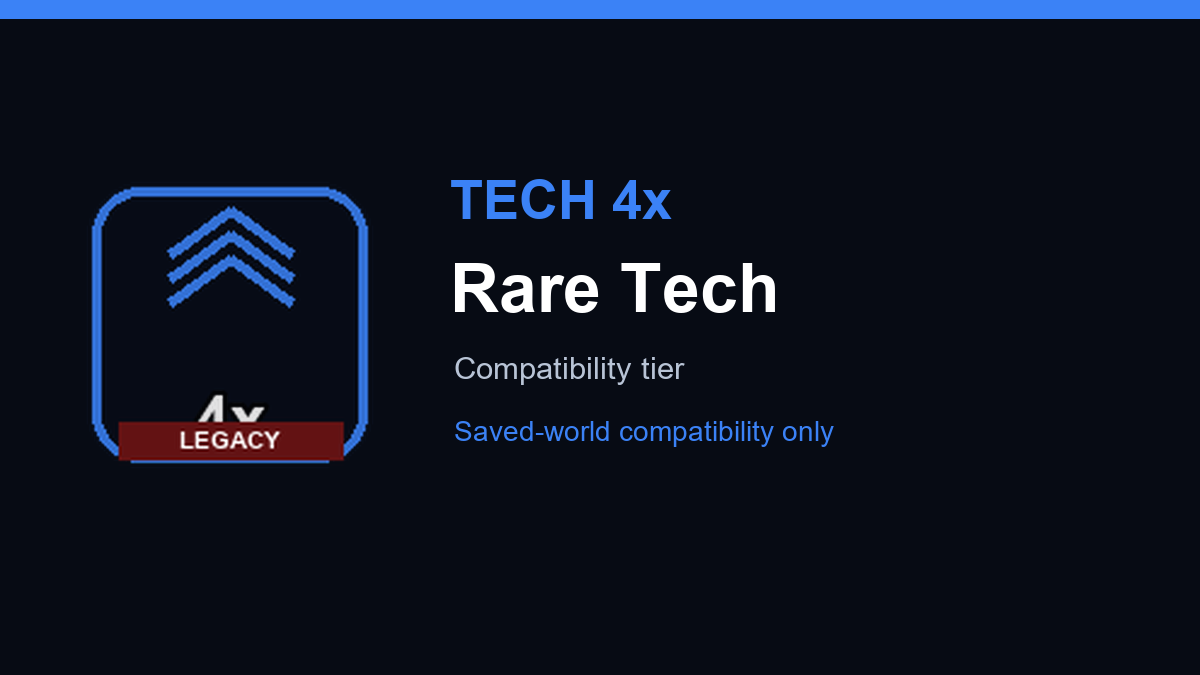
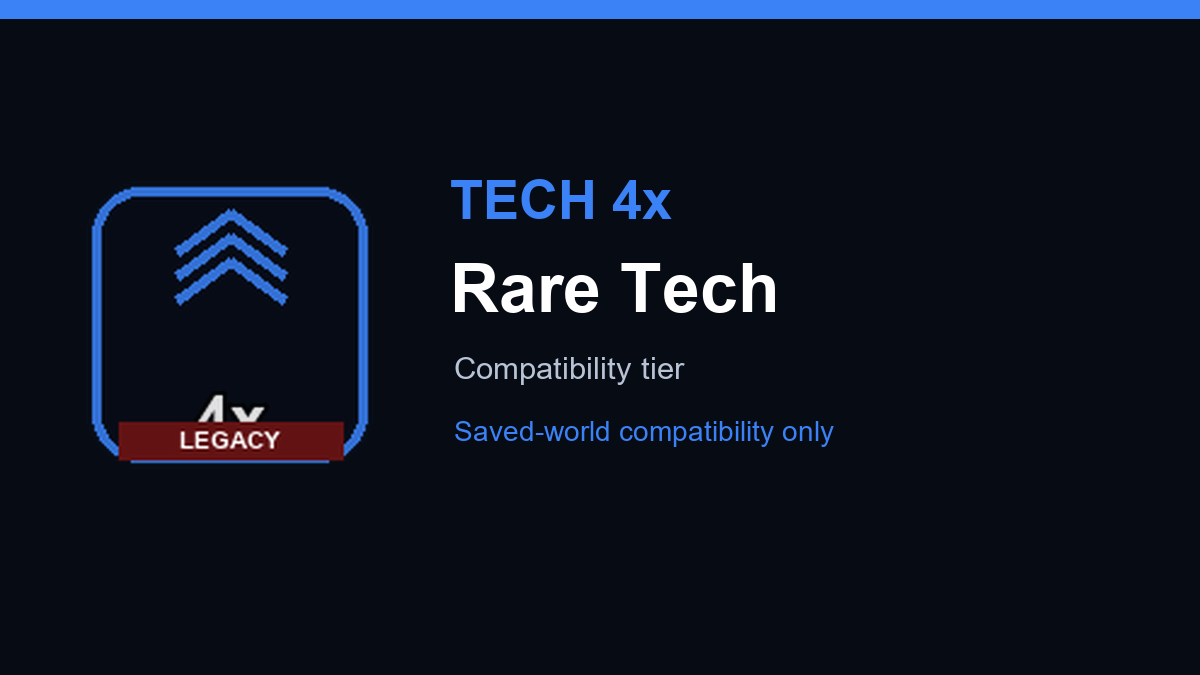
Update tier artwork chevrons

Changed region(s): [[0.1233, 0.3111, 0.2467, 0.4667]]

diff --git a/CHANGELOG.md b/CHANGELOG.md
@@ -1,6 +1,9 @@
 # Changelog
 
-## [Unreleased — 5.0]
+## [Unreleased - 5.0]
+
+- Slightly reduced the tier-badge chevrons so more of each underlying block
+  icon remains visible.
 
 ### In development
 
